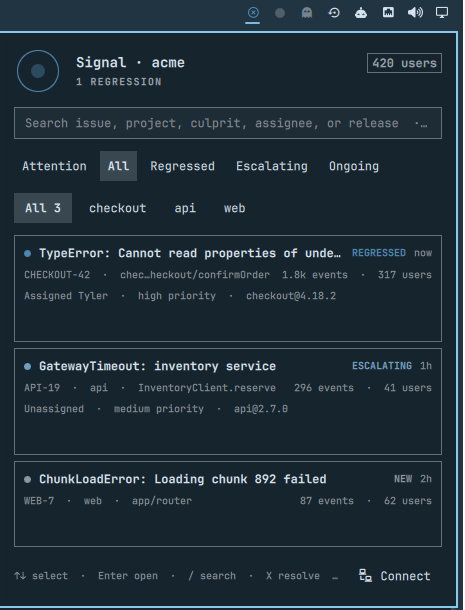
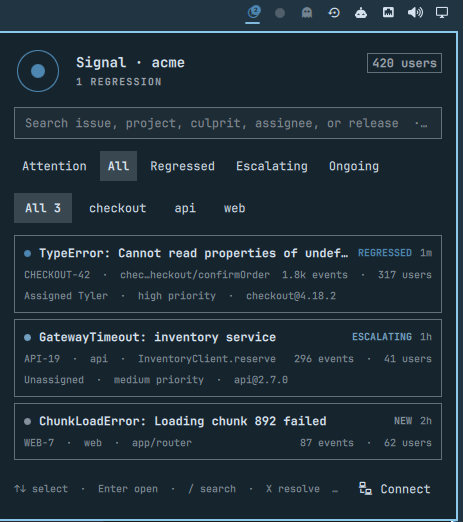
Finish audited Signal 1.0 UX

diff --git a/Signal.qml b/Signal.qml
@@ -89,7 +89,7 @@ Panel {
   }
   function requestAction(action, issue) {
     if (!issue || signal.boolSetting("demoMode", false)) return
-    if (signal.busy) { signal.actionMessage = "Wait for the current Sentry request to finish."; return }
+    if (signal.busy) { signal.showActionMessage("Wait for the current Sentry request to finish."); return }
     pendingAction = action
     pendingIssue = issue
     confirmDialog.message = (action === "resolve" ? "Resolve " : "Archive ") + issue.shortId + "?\n\n" + issue.title

diff --git a/Service.qml b/Service.qml
@@ -58,6 +58,7 @@ Item {
     fetcher.running = true
   }
   function refreshIfIdle() { if (!fetcher.running && !actor.running) refresh() }
+  function showActionMessage(value) { actionMessage = value; actionNotice.restart() }
   function act(action, issueId) {
     if (fetcher.running || actor.running || boolSetting("demoMode", false)) return
     actionIssueId = String(issueId || "")

diff --git a/CHANGELOG.md b/CHANGELOG.md
@@ -9,3 +9,6 @@
 - Secret Service credential storage and stdin-only authorization headers
 - Organization-scoped offline cache and rate-limit-aware errors
 - Keyboard navigation, demo mode, and submission-ready preview assets
+- Curl configuration isolation, strict HTTPS origins, transactional reconnects, and HTTPS-only issue links
+- Origin-scoped caches with stale fallback for transport, rate-limit, and Sentry 5xx failures
+- Keyboard-accessible filters, auto-scrolling selection, busy-state guards, and safe dialog cleanup

diff --git a/README.md b/README.md
@@ -55,7 +55,7 @@ Run **Connect Sentry** again at any time to verify or replace the connection. To
 
 ```bash
 secret-tool clear service tsouth89.signal organization YOUR_ORG_SLUG
-rm -r ~/.config/omarchy/signal
+rm -r ~/.config/omarchy/signal ~/.local/state/omarchy/signal
 ```
 
 ## Keyboard controls
